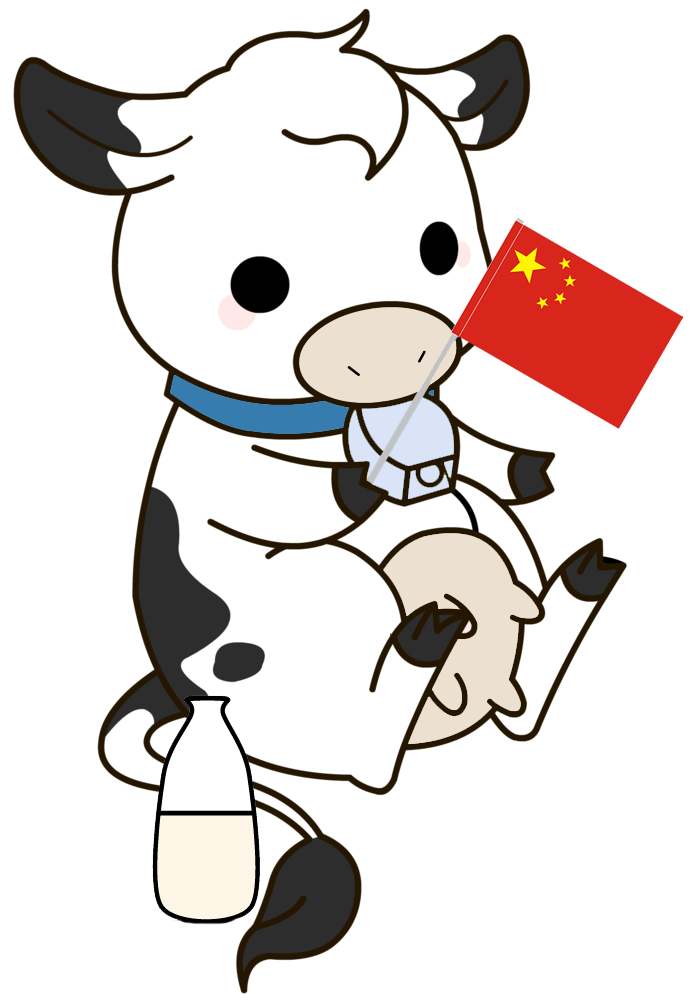
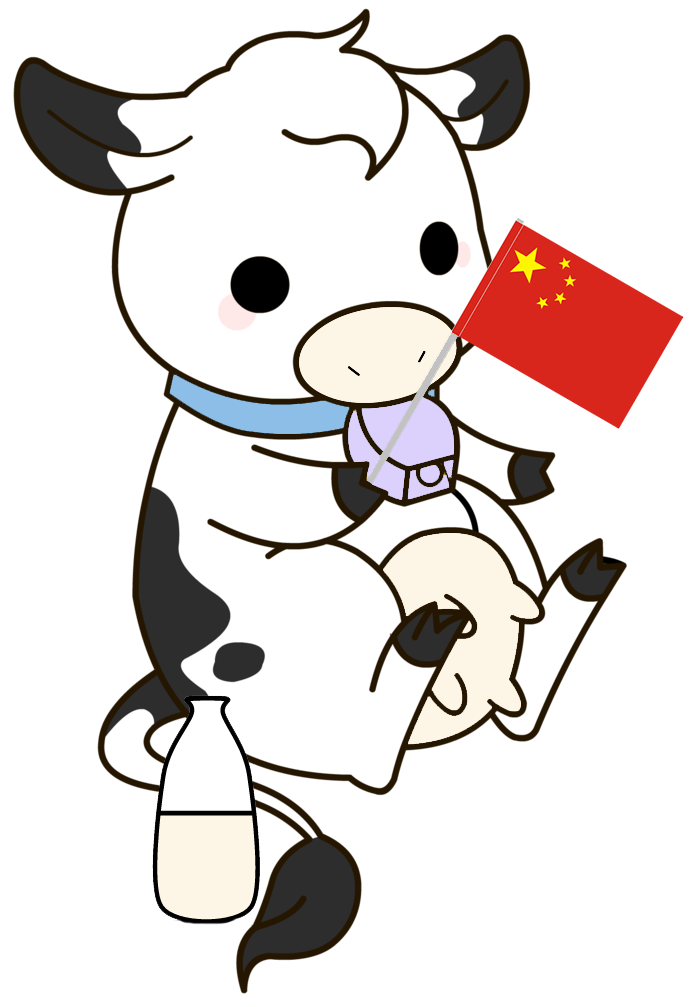
Experimented with Color Schemes
Changed cow color and all colors on graphs into a dairy color palette

diff --git a/index.html b/index.html
@@ -438,12 +438,12 @@
                             svglabels.append("text").text(bins[key].countries).style("font-size", "19").style("fill", "#1E1E1E").style("text-anchor", "middle").attr("x", 550)
                                 .attr("y", YScale1(bins[key].id) + 250).attr("class", "countrylabel");
                             //Adds lines through each country name to easily see how total milk production and consumption maps to which country
-                            svglabels.append("path").attr("d", lineFunction(indiaright) + lineFunction(indialeft) + lineFunction(usright) + lineFunction(usleft) + lineFunction(chinaright) + lineFunction(chinaleft) + lineFunction(pakleft) + lineFunction(pakright) + lineFunction(brazilleft) + lineFunction(brazilright) + lineFunction(russiaright) + lineFunction(russialeft) + lineFunction(franceright) + lineFunction(franceleft) + lineFunction(gerright) + lineFunction(gerleft) + lineFunction(turleft) + lineFunction(turright) + lineFunction(ukleft) + lineFunction(ukright) + lineFunction(polandleft) + lineFunction(polandright) + lineFunction(argright) + lineFunction(argleft) + lineFunction(mexleft) + lineFunction(mexright) + lineFunction(ausleft) + lineFunction(ausright) + lineFunction(canadaleft) + lineFunction(canadaright) + lineFunction(spainleft) + lineFunction(spainright) + lineFunction(sudanleft) + lineFunction(sudanright) + lineFunction(jpleft) + lineFunction(jpright) + lineFunction(iranleft) + lineFunction(iranright) + lineFunction(uzright) + lineFunction(uzleft)).attr("stroke", "#1E1E1E").attr("stroke-width", .5).attr("transform", "translate(450,238)");
+                            svglabels.append("path").attr("d", lineFunction(indiaright) + lineFunction(indialeft) + lineFunction(usright) + lineFunction(usleft) + lineFunction(chinaright) + lineFunction(chinaleft) + lineFunction(pakleft) + lineFunction(pakright) + lineFunction(brazilleft) + lineFunction(brazilright) + lineFunction(russiaright) + lineFunction(russialeft) + lineFunction(franceright) + lineFunction(franceleft) + lineFunction(gerright) + lineFunction(gerleft) + lineFunction(turleft) + lineFunction(turright) + lineFunction(ukleft) + lineFunction(ukright) + lineFunction(polandleft) + lineFunction(polandright) + lineFunction(argright) + lineFunction(argleft) + lineFunction(mexleft) + lineFunction(mexright) + lineFunction(ausleft) + lineFunction(ausright) + lineFunction(canadaleft) + lineFunction(canadaright) + lineFunction(spainleft) + lineFunction(spainright) + lineFunction(sudanleft) + lineFunction(sudanright) + lineFunction(jpleft) + lineFunction(jpright) + lineFunction(iranleft) + lineFunction(iranright) + lineFunction(uzright) + lineFunction(uzleft)).attr("stroke", "#1E1E1E").attr("stroke-width", 1).attr("transform", "translate(450,238)");
                         });
                         //Loops through each of country keys inside all-data.json to append bars for milk production for each individual country
                         Object.keys(bins).forEach(function(key) {
                             //appends bars for milk production for each individual country
-                            svgContainer.append("rect").attr("class", "bar").style("fill", "#ECE0D0")
+                            svgContainer.append("rect").attr("class", "bar").style("fill", "#8CBEE8")
                                 .attr("x", XScale(bins[key].Production / 1000000) - 26)
                                 .attr("y", YScale1(bins[key].id) + 230)
                                 .attr("width", XScale(150 - (bins[key].Production / 1000000)))
@@ -451,7 +451,7 @@
                         });
                         //Loops through each of the country keys inside all-data.json to append bars for milk consumption for each individual country
                         Object.keys(bins).forEach(function(key) {
-                            svgContainer.append("rect").attr("class", "bar").style("fill", "#DBE3F6")
+                            svgContainer.append("rect").attr("class", "bar").style("fill", "#DCD1FD")
                                 .attr("x", 660)
                                 .attr("y", YScale1(bins[key].id) + 230)
                                 .attr("width", XScale2(bins[key].Total_Milk_Consumption / 1000000) + 8)
@@ -499,7 +499,7 @@
                     var xScale = d3.scale.ordinal().rangeRoundBands([0, width], .1);
                     var yScale = d3.scale.linear().rangeRound([height, 0]);
                     var color = d3.scale.ordinal()
-                        .range(["#FDF5E6", "#367CAF", "#DBE3F6", "#ECE0D0", "#89CCE9"]);
+                        .range(["#fcdae7", "#FFF5E7", "#DCD1FD", "#8cbee8","#8596FF"]);
                     var xAxis = d3.svg.axis()
                         .scale(xScale)
                         .orient("bottom");
@@ -649,7 +649,8 @@
                         heightG2 = 700 - marginG2.top - marginG2.bottom;
                     var xScaleG2 = d3.scale.linear().domain([0, 300]).range([0, widthG2]);
                     var yScaleG2 = d3.scale.linear().domain([0, 100]).range([heightG2, 0]);
-                    var colorG2 = d3.scale.category20();
+                    var colorG2 = d3.scale.ordinal()
+                        .range(["#0801ee", "#3affe7", "#ffa3e9", "#01b1f6", "#fe03ea", "#6373fd", "#fff5e7", "#a748ff", "#92e7f9", "#9995e9", "#e3fde8", "#dcd1fd", "#51c7e8", "#b0e3e8", "#b7ffe8", "#8596ff", "#fcdae7", "#8cbee8", "#03f1fe", "#713ce7"]);
                     var xAxisG2 = d3.svg.axis()
                         .scale(xScaleG2)
                         .orient("bottom");
